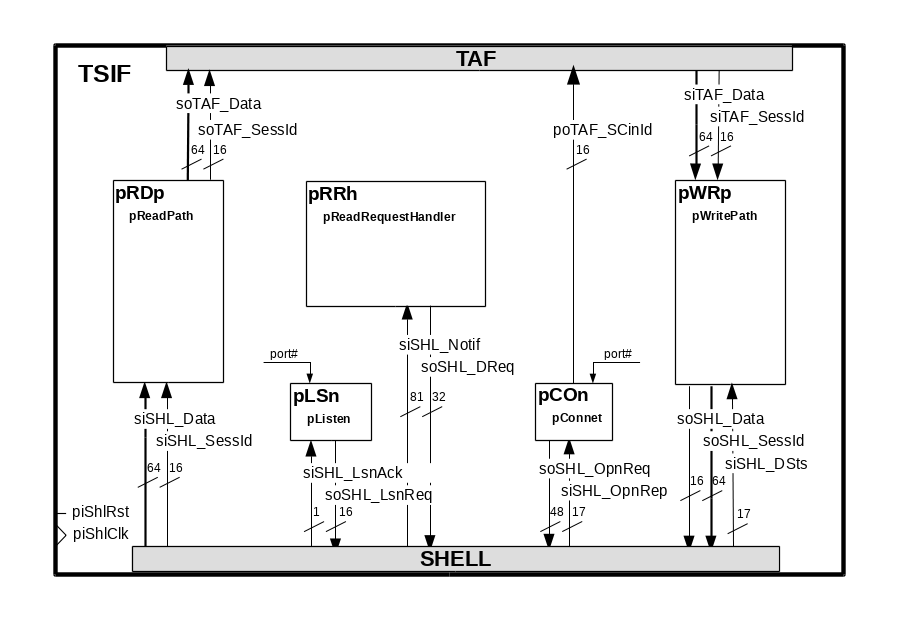
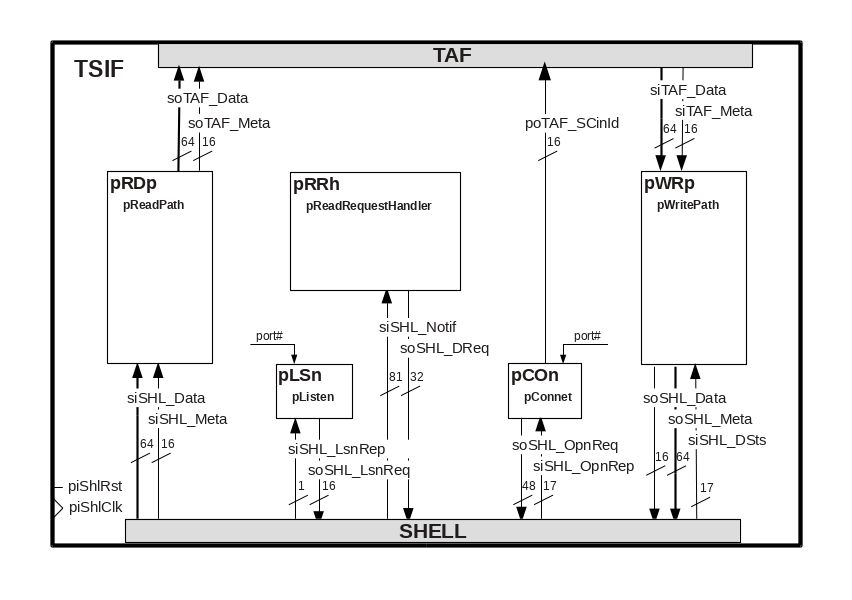
TSIF - Updated with new NTS types and 4 listening ports. [ci skip]

diff --git a/ROLE/hls/tcp_shell_if/src/tcp_shell_if.cpp b/ROLE/hls/tcp_shell_if/src/tcp_shell_if.cpp
@@ -64,7 +64,7 @@ using namespace std;
 #define TRACE_LSN 1 <<  4
 #define TRACE_CON 1 <<  5
 #define TRACE_ALL  0xFFFF
-#define DEBUG_LEVEL (TRACE_ALL)
+#define DEBUG_LEVEL (TRACE_LSN | TRACE_CON)
 
 
 /*******************************************************************************
@@ -193,8 +193,8 @@ void pConnect(
  * @warning
  *  This process requests the SHELL/NTS/TOE to start listening for incoming
  *   connections on a specific port (.i.e, open connection in server mode).
- *  By default, the port numbers 5001, 5201 and 8803 will always be opened in
- *   listen mode at startup. Later on, we should be able to open more port if
+ *  By default, the port numbers 5001, 5201, 8800 and 8803 will always be opened
+ *   in listen mode at startup. Later on, we should be able to open more port if
  *   we provide some configuration register for the user to specify new ones.
  *  FYI - The Port Table (PRt) of SHELL/NTS/TOE supports two port ranges; one
  *   for static ports (0 to 32,767) which are used for listening ports, and one
@@ -213,7 +213,7 @@ void pListen(
     const char *myName = concat3(THIS_NAME, "/", "LSn");
 
     //-- STATIC CONTROL VARIABLES (with RESET) ---------------------------------
-    static enum FsmStates { LSN_IDLE, LSN_LOAD_NXT, LSN_SEND_REQ,
+    static enum FsmStates { LSN_IDLE, LSN_SEND_REQ,
                             LSN_WAIT_REP, LSN_DONE } \
                                lsn_fsmState=LSN_IDLE;
     #pragma HLS reset variable=lsn_fsmState
@@ -221,8 +221,9 @@ void pListen(
     #pragma HLS reset variable=lsn_i
 
     //-- STATIC ARRAYS --------------------------------------------------------
-    static const TcpPort            LSN_PORT_TABLE[4] = { 8803, 5001, 5201, 80 };
-    #pragma HLS RESOURCE variable=LSN_PORT_TABLE core=FIFO
+    static const TcpPort LSN_PORT_TABLE[4] = { RECV_MODE_LSN_PORT, ECHO_MODE_LSN_PORT,
+                                               IPERF_LSN_PORT, IPREF3_LSN_PORT };
+    #pragma HLS RESOURCE variable=LSN_PORT_TABLE core=ROM_1P
 
     //-- STATIC DATAFLOW VARIABLES ---------------------------------------------
     static ap_uint<8>  lsn_watchDogTimer;
@@ -235,7 +236,7 @@ void pListen(
         }
         else {
             if (lsn_i == 0) {
-                lsn_fsmState = LSN_LOAD_NXT;
+                lsn_fsmState = LSN_SEND_REQ;
             }
             else {
                 //-- Port are already opened
@@ -243,15 +244,22 @@ void pListen(
             }
         }
         break;
-    case LSN_LOAD_NXT:
-        lsn_tcpPort = LSN_PORT_TABLE[lsn_i];
-        lsn_fsmState = LSN_SEND_REQ;
-        break;
     case LSN_SEND_REQ:
         if (!soSHL_LsnReq.full()) {
-            soSHL_LsnReq.write(lsn_tcpPort);
-            //TcpPort tcpListenPort = ECHO_LSN_PORT;
-            //soSHL_LsnReq.write(tcpListenPort);
+            switch (lsn_i) {
+            case 0:
+                soSHL_LsnReq.write(RECV_MODE_LSN_PORT);
+                break;
+            case 1:
+                soSHL_LsnReq.write(ECHO_MODE_LSN_PORT);
+                break;
+            case 2:
+                soSHL_LsnReq.write(IPERF_LSN_PORT);
+                break;
+            case 3:
+                soSHL_LsnReq.write(IPREF3_LSN_PORT);
+                break;
+            }
             if (DEBUG_LEVEL & TRACE_LSN) {
                 printInfo(myName, "Server is requested to listen on port #%d (0x%4.4X).\n",
                           LSN_PORT_TABLE[lsn_i].to_uint(), LSN_PORT_TABLE[lsn_i].to_uint());
@@ -274,13 +282,13 @@ void pListen(
             siSHL_LsnRep.read(listenDone);
             if (listenDone) {
                 printInfo(myName, "Received listen acknowledgment from [TOE].\n");
-                lsn_i += 1;
                 if (lsn_i == 3) {
                     lsn_fsmState = LSN_DONE;
                 }
                 else {
-                    //-- Load next port number
-                    lsn_fsmState = LSN_LOAD_NXT;
+                    //-- Set next listen port number
+                    lsn_i += 1;
+                    lsn_fsmState = LSN_SEND_REQ;
                 }
             }
             else {
@@ -292,7 +300,7 @@ void pListen(
         else {
             if (lsn_watchDogTimer == 0) {
                 printError(myName, "Timeout: Server failed to listen on port %d %d (0x%4.4X).\n",
-                           ECHO_LSN_PORT, ECHO_LSN_PORT);
+                        LSN_PORT_TABLE[lsn_i].to_uint(), LSN_PORT_TABLE[lsn_i].to_uint());
                 lsn_fsmState = LSN_SEND_REQ;
             }
         }

diff --git a/ROLE/hls/tcp_shell_if/src/tcp_shell_if.hpp b/ROLE/hls/tcp_shell_if/src/tcp_shell_if.hpp
@@ -51,7 +51,10 @@ using namespace hls;
 //--  --> 8803 : Traffic received on this port is looped backed and
 //--             echoed to the sender.
 //-------------------------------------------------------------------
-#define ECHO_LSN_PORT           8803        // 0x2263
+#define RECV_MODE_LSN_PORT      8800        // 0x2260
+#define XMIT_MODE_LSN_PORT      8801        // 0x2261
+#define BIDIR_MODE_LSN_PORT     8802        // 0x2262
+#define ECHO_MODE_LSN_PORT      8803        // 0x2263
 #define IPERF_LSN_PORT          5001        // 0x1389
 #define IPREF3_LSN_PORT         5201        // 0x1451
 

diff --git a/ROLE/hls/tcp_shell_if/test/test_tcp_shell_if.cpp b/ROLE/hls/tcp_shell_if/test/test_tcp_shell_if.cpp
@@ -43,7 +43,7 @@ using namespace std;
 #define TRACE_TAF    1 <<  2
 #define TRACE_MMIO   1 <<  3
 #define TRACE_ALL     0xFFFF
-#define DEBUG_LEVEL (TRACE_ALL)
+#define DEBUG_LEVEL (TRACE_TOE | TRACE_MMIO)
 
 /******************************************************************************
  * @brief Increment the simulation counter
